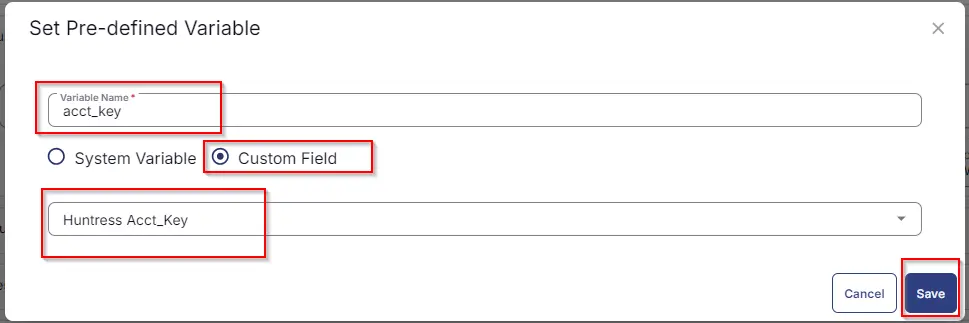
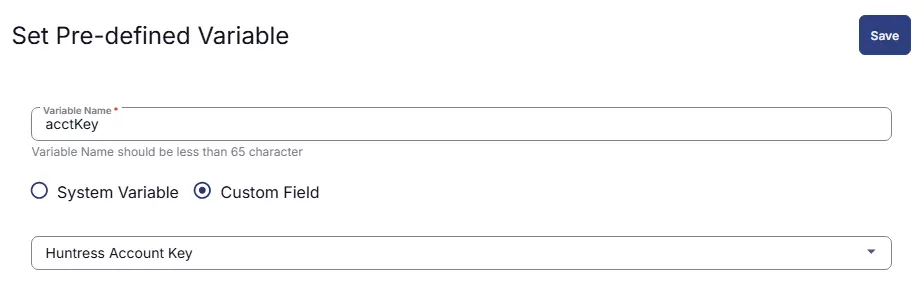
Huntress Agent (Install) - MAC
- Updated document

Changed region(s): [[0.0, 0.0, 1.0, 1.0]]

diff --git a/docs/cwrmm/tasks/huntress-agent-install-mac.md b/docs/cwrmm/tasks/huntress-agent-install-mac.md
@@ -29,65 +29,67 @@ Please create a new "PowerShell" style script to implement this task.
 
 ## Script
 
-### Row 1 Function: Script Log
-
-![Image 4](../../../static/img/docs/3a0c2a5d-0d46-4c3b-b0a7-bdffd60c6fd2/image_4_1.webp)  
-
-Input the following:
-
-```Shell
-The script will detect the Huntress Agent, and if the agent is not found, it will install the agent.  
-
-acct_key : @acct_key@  
-org_key: @ORG_Key@  
-tags: ['installation', 'logging']
-
-Attempting to download the file using acct_key from the Huntress website as below:  
-https://huntress.io/script/darwin/@acctKey, and once downloaded, the agent will be attempted to install.
-```
-
-### Row 2 Function: Set Pre-defined Variable
+### Row 1 Function: Set Pre-defined Variable
 
 - Select `Set Pre-Defined Variable` Function  
 ![Image 5](../../../static/img/docs/3a0c2a5d-0d46-4c3b-b0a7-bdffd60c6fd2/image_5_1.webp)  
 
 - Select `Custom Field`  
-- Input `acct_key` as Variable name  
-- Select `Huntress Acct_Key` custom field from the dropdown  
+- Input `acctKey` as Variable name  
+- Select `Huntress Acct_Key` or (`Huntress Account Key`) custom field from the dropdown  
 - Click Save  
 
 ![Image 6](../../../static/img/docs/3a0c2a5d-0d46-4c3b-b0a7-bdffd60c6fd2/image_6_1.webp)  
 
-### Row 3 Function: Set Pre-defined Variable
+### Row 2 Function: Set Pre-defined Variable
 
 - Select `Set Pre-Defined Variable` Function  
 ![Image 7](../../../static/img/docs/3a0c2a5d-0d46-4c3b-b0a7-bdffd60c6fd2/image_5_1.webp)  
 
 - Select `Custom Field`  
-- Input `ORG_Key` as Variable name  
+- Input `orgKey` as Variable name  
 - Select `Huntress Org_Key` custom field from the dropdown  
 - Click Save  
 
 ![Image 8](../../../static/img/docs/3a0c2a5d-0d46-4c3b-b0a7-bdffd60c6fd2/image_7_1.webp)  
 
-### Row 4 Function: Set Pre-defined Variable
+### Row 3 Function: Set Pre-defined Variable
 
 - Select `Set Pre-Defined Variable` Function  
 ![Image 9](../../../static/img/docs/3a0c2a5d-0d46-4c3b-b0a7-bdffd60c6fd2/image_5_1.webp)  
 
 - Select `Custom Field`  
-- Input `Tags` as Variable name  
+- Input `tags` as Variable name  
 - Select `Huntress Tag` custom field from the dropdown  
 - Click Save  
 
 ![Image 10](../../../static/img/docs/3a0c2a5d-0d46-4c3b-b0a7-bdffd60c6fd2/image_8_1.webp)  
+
+### Row 4 Function: Script Log
+
+![Image 4](../../../static/img/docs/3a0c2a5d-0d46-4c3b-b0a7-bdffd60c6fd2/image_4_1.webp)  
+
+Input the following:
+
+```PlainText
+The script will detect the Huntress Agent and if the agent is not found then it will install the agent.
+
+acct_key : @acctKey@
+org_key: @orgKey@
+Tags: @tags@
+
+Attempting to download the file using acct_key from the huntress website as below:
+
+https://huntress.io/script/darwin/@acctKey@, and once downloaded the agent will be attempted to install.
+```
 
 ## Row 5 Function: Bash Script
 
 ![Image 11](../../../static/img/docs/3a0c2a5d-0d46-4c3b-b0a7-bdffd60c6fd2/image_9_1.webp)  
 
 Paste the following PowerShell script and set the expected script execution time to 900 seconds.  
-```
+
+```bash
 #!/bin/bash
 
 # Check if Huntress is installed
@@ -125,6 +127,7 @@ fi
 ```shell
 %Output%
 ```
+
 ![Image 13](../../../static/img/docs/3a0c2a5d-0d46-4c3b-b0a7-bdffd60c6fd2/image_11_1.webp)  
 ![Image 14](../../../static/img/docs/3a0c2a5d-0d46-4c3b-b0a7-bdffd60c6fd2/image_12_1.webp)  
 
@@ -165,6 +168,7 @@ fi
 ```shell
 Huntress Agent failed to install. Refer to the logs: %Output%
 ```
+
 ![Image 20](../../../static/img/docs/3a0c2a5d-0d46-4c3b-b0a7-bdffd60c6fd2/image_16_1.webp)  
 ![Image 21](../../../static/img/docs/3a0c2a5d-0d46-4c3b-b0a7-bdffd60c6fd2/image_18_1.webp)  
 
